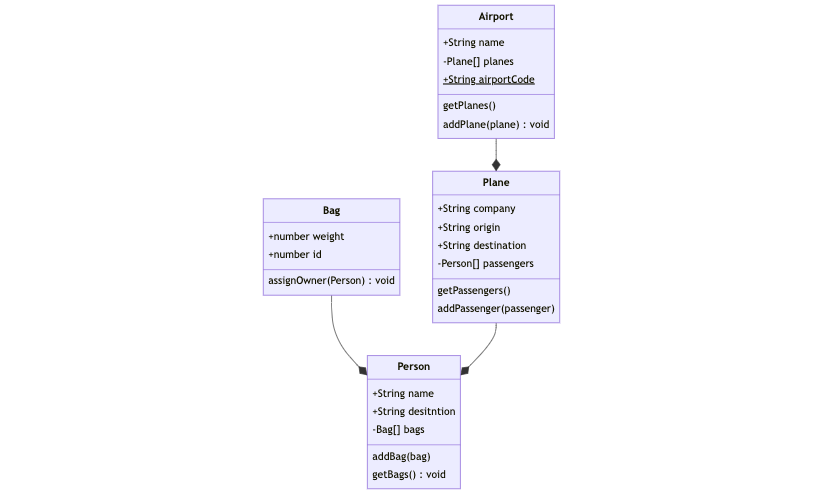
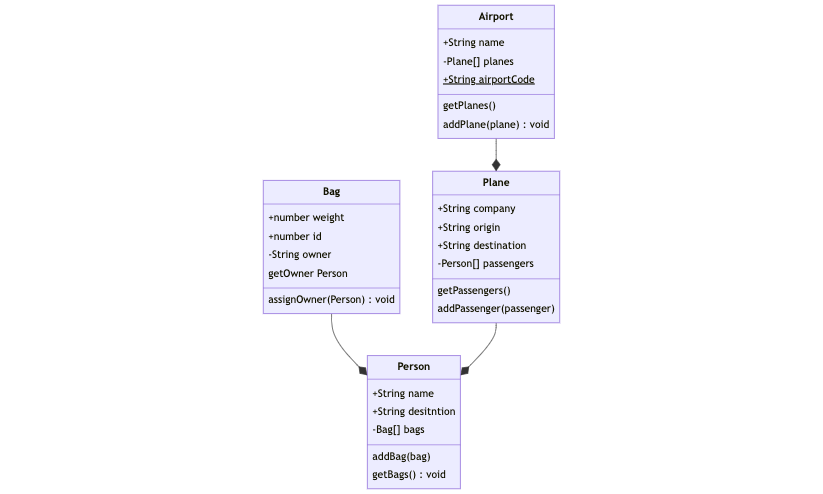
updated directions for specificity

Changed region(s): [[0.3038, 0.3644, 0.486, 0.6377], [0.3949, 0.668, 0.4253, 0.6984]]

diff --git a/README.md b/README.md
@@ -18,13 +18,16 @@ In this activity, you'll be practicing object-oriented programming (OOP) by crea
 2. In `Bag.test.js`, construct the tests that will verify that you have included all of the required components outlined in the class diagram above. A few to consider using:
     - Test that you can create an instance of the `Bag` class
     - Test that the `weight` and `id` have been assigned correctly.
-    - Create a test to add a `Person` to a `Bag` using `assignOwner()`. You won't be able to assign a person until you completing the next section.
+    - `owner`: The person assigned to a `Bag`. Initialized with a value of `null`.
+    - Verify you can get the initial `owner` using `getOwner`.
+    - Create a test to update `owner` with a `Person` assigned to a `Bag` using `assignOwner()`. You won't be able to assign a person until you completing the next section.
 3. In `Bag.js`, create code that meets the following specifications:
     - **Properties**
         - `weight`: The weight of the bag.
         - `id`: An id for the bag.
     - **Methods**
-        - `assignOwner(Person)`: Assigns a `Person` to their corresponding `Bag`.
+        - `getOwner()`: Returns the `Person` assigned to the bag.
+        - `assignOwner(person)` Updates `owner` with a `person` assigned to a `Bag`.
 4. Verify your tests work by running `npm test ./__tests__/classes/Bag.test.js`. 
 
 ## `Person`
@@ -64,11 +67,12 @@ In this activity, you'll be practicing object-oriented programming (OOP) by crea
 4. Verify your tests work by running `npm test ./__tests__/classes/Plane.test.js`. 
 
 ## `Airport`
-1. In `Plane.test.js`, import the `Plane` class from `Plane.js` that has been created for you.
-2. In `Plane.test.js`, construct the tests that will verify that you have included all of the required components outlined in the class diagram above. A few to consider using:
-    - Test that `company`, `origin`, and `destination` are assigned to the correct value.
-    - Check that the `passengers` array initializes as an empty array.
-    - Verify that you can add a `Person` to the `passengers` array using `addPassenger`.
+1. In `Airport.test.js`, import the `Airport` class from `Airport.js` that has been created for you.
+2. In `Airport.test.js`, construct the tests that will verify that you have included all of the required components outlined in the class diagram above. A few to consider using:
+    - Test that `name` and `planes` are assigned to the correct value.
+    - Test that `airportCode` is the correct value
+    - Check that the `planes` array initializes as an empty array.
+    - Verify that you can add `Plane` objects to the planes array using `addPlane`.
 3. In `Plane.js`, create code that meets the following specifications:
     - **Properties**
         - `name`: The name of the Airport.
